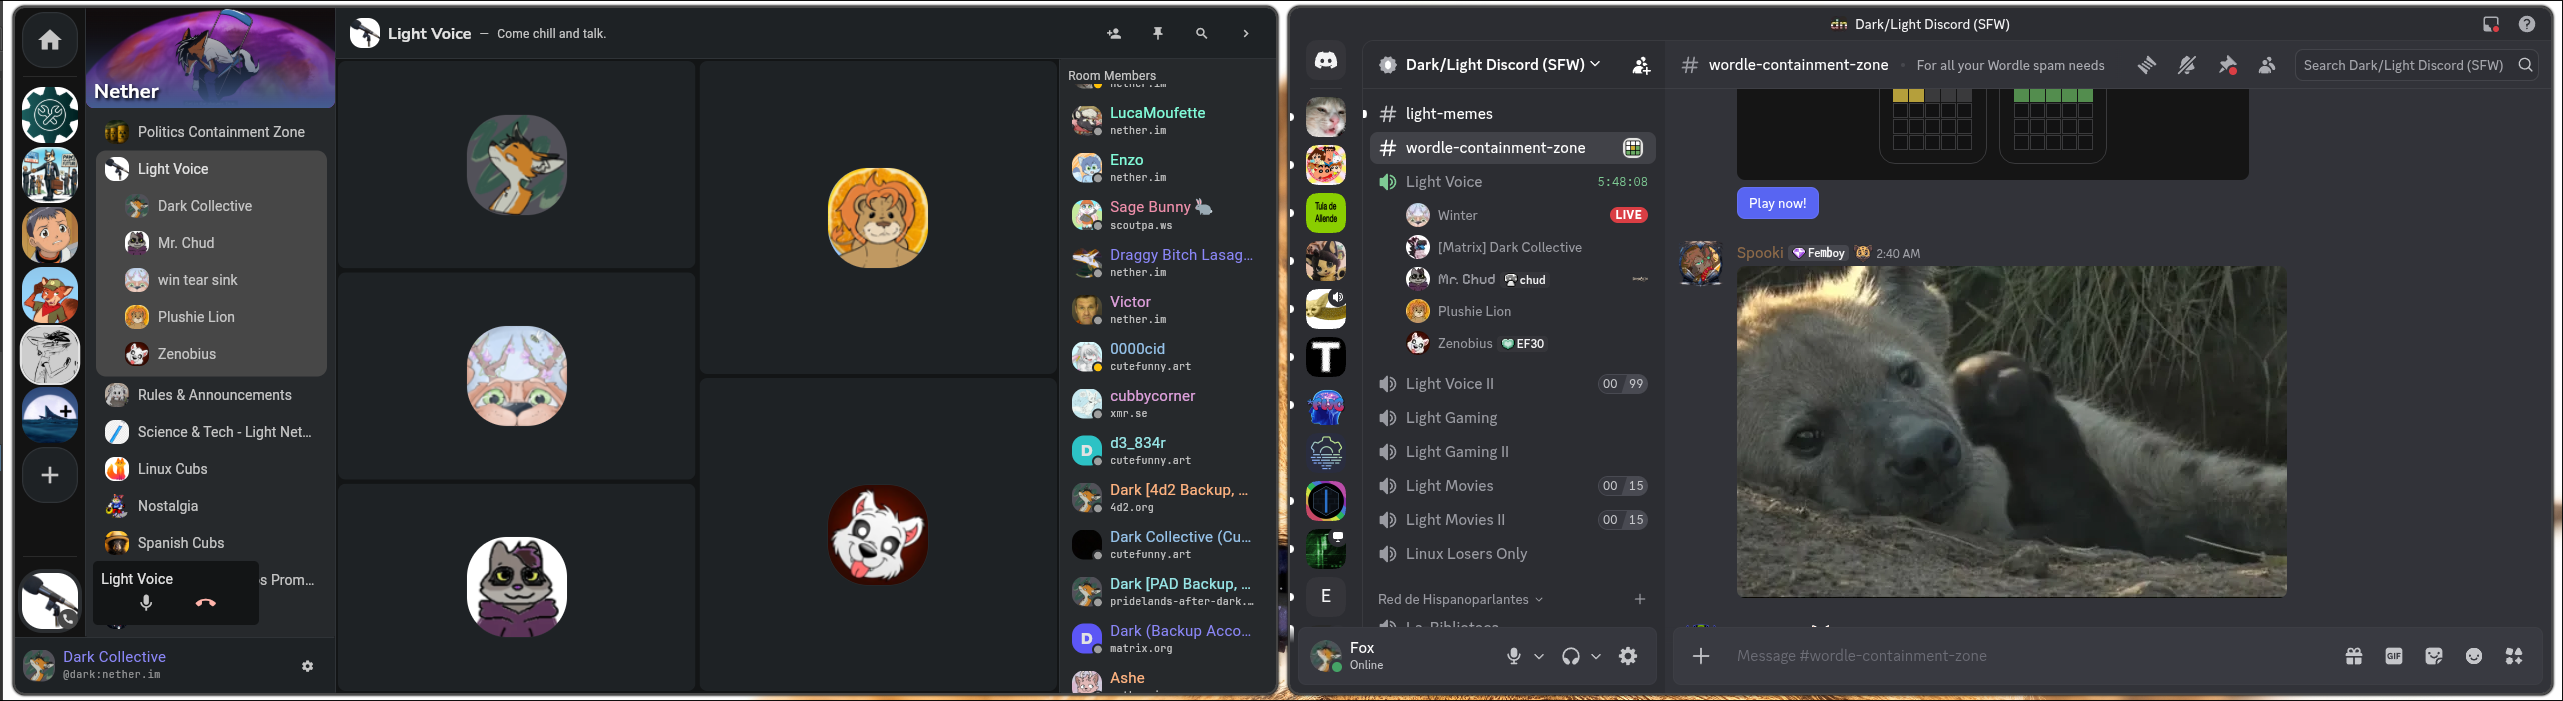
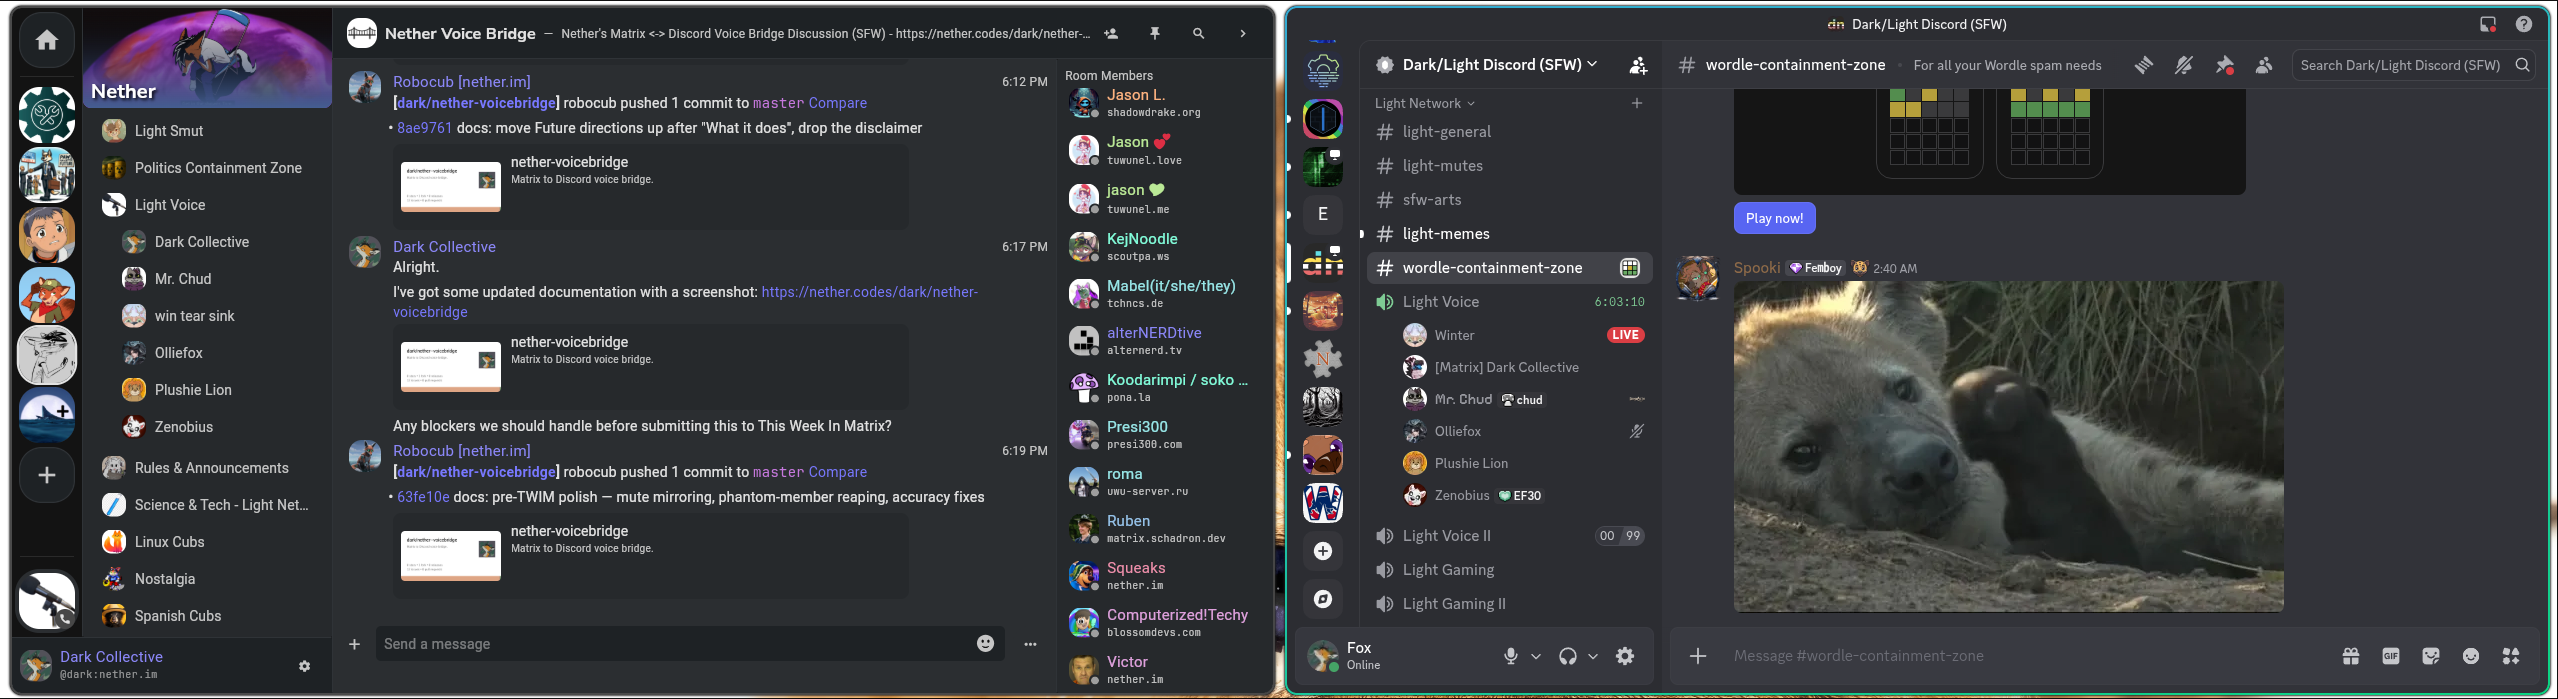
docs: refresh README screenshot + tidy architecture diagram alignment
Replace docs/images/nether-voicebridge.png with the improved capture and
apply hand-tuned box alignment to the runtime-shape ASCII diagram.

diff --git a/docs/nether-voicebridge-architecture.md b/docs/nether-voicebridge-architecture.md
@@ -35,25 +35,25 @@ tasks and channels.
 
 ```
                          ┌──────────────────────────────────────┐
-                         │              Coordinator              │
-                         │  (one Bridge per channel-pair)        │
+                         │              Coordinator             │
+                         │  (one Bridge per channel-pair)       │
                          └──────────────────────────────────────┘
                                           │
-                    ┌─────────────────────┴─────────────────────┐
+                    ┌─────────────────────┴──────────────────────┐
                     │                  Bridge                    │
                     │  lifecycle state machine + AudioRouter     │
                     └────────────────────────────────────────────┘
         Discord side  │                                      │  Matrix side
                       ▼                                      ▼
    ┌───────────────────────────────┐        ┌──────────────────────────────────┐
-   │ Puppet pool (N bots)          │        │ Subscriber participant (1)        │
-   │  one floating CAPTURE ANCHOR: │        │  livekit-rust, subscribes to all  │
-   │   songbird RX, all SSRCs,     │        │  remote tracks → Opus → PCM       │
+   │ Puppet pool (N bots)          │        │ Subscriber participant (1)       │
+   │  one floating CAPTURE ANCHOR: │        │  livekit-rust, subscribes to all │
+   │   songbird RX, all SSRCs,     │        │  remote tracks → Opus → PCM      │
    │   DAVE decrypt → Opus → PCM   │        ├──────────────────────────────────┤
-   │  the rest are per-speaker     │        │ Ghost set (N appservice users)    │
-   │  puppets:                     │        │  one per Discord speaker          │
-   │   PCM → Opus → DAVE → play,   │        │  PCM → publish own LiveKit track  │
-   │   nickname = Matrix display   │        │  + post m.call membership event   │
+   │  the rest are per-speaker     │        │ Ghost set (N appservice users)   │
+   │  puppets:                     │        │  one per Discord speaker         │
+   │   PCM → Opus → DAVE → play,   │        │  PCM → publish own LiveKit track │
+   │   nickname = Matrix display   │        │  + post m.call membership event  │
    └───────────────────────────────┘        └──────────────────────────────────┘
 ```
 
